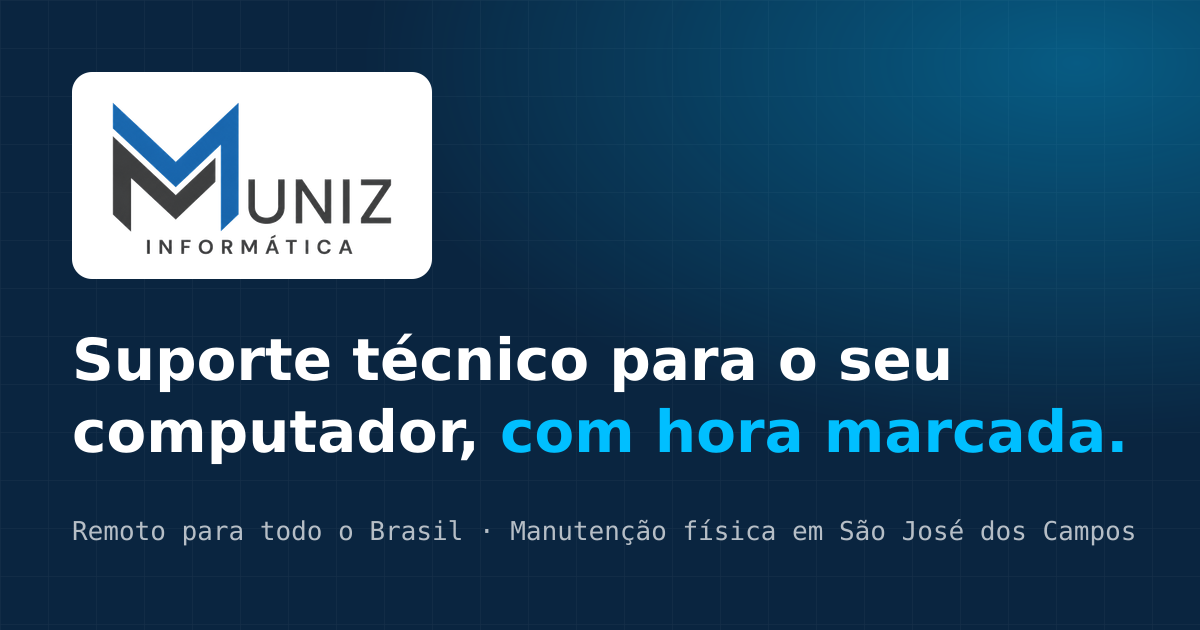
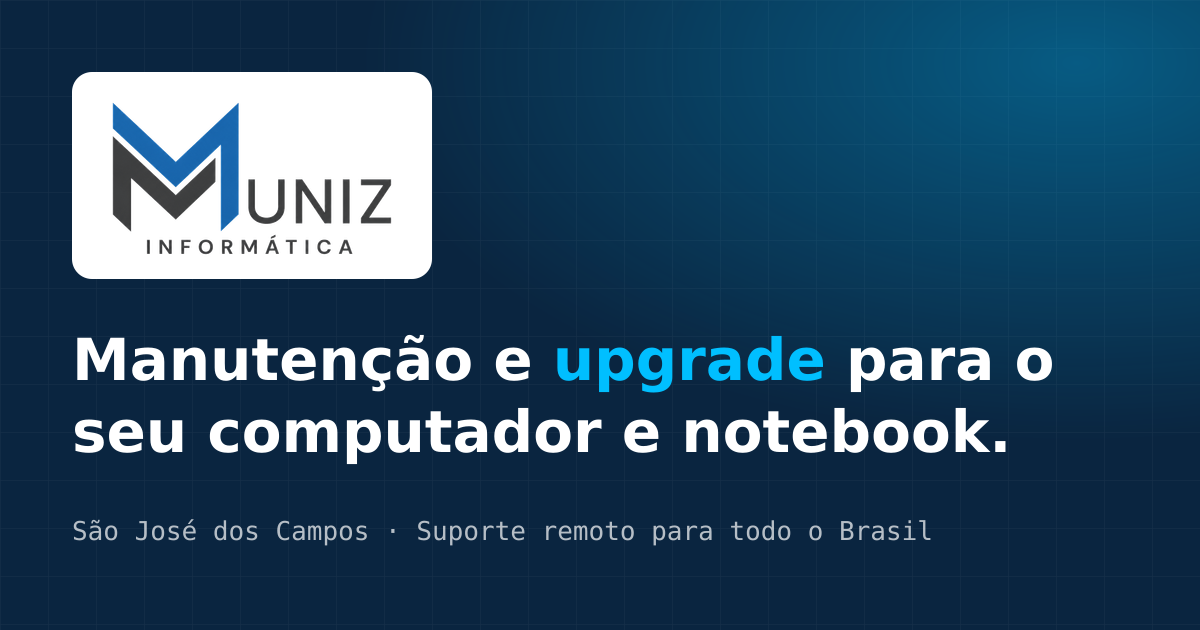
Muda o foco do site para manutenção e upgrade em SJC
- Página inicial: novo título, subtítulo e ordem das seções (manutenção e upgrade primeiro)
- /manutencao-de-computadores/ vira página central com grade dos serviços físicos
- Botão "Pedir orçamento" e mensagens de WhatsApp pedindo o modelo do equipamento
- Menu, serviços, rodapé e diagnóstico rápido começam por manutenção e upgrade
- Remove "hora marcada" dos textos; horário vira benefício (noites e fins de semana)
- Nova imagem de compartilhamento e correção do botão de empresas no celular

Changed region(s): [[0.0617, 0.5127, 0.9558, 0.754], [0.0617, 0.8143, 0.9558, 0.8746]]

diff --git a/src/data/services.ts b/src/data/services.ts
@@ -29,6 +29,8 @@ export interface ServicePage {
   approach: string[];
   faqs: [string, string][];
   related: string[];
+  /** Página central: lista estes serviços logo abaixo do topo. */
+  hub?: string[];
   wa: string;
 }
 
@@ -87,7 +89,7 @@ export const services: ServicePage[] = [
     cardText: 'Erros, atualizações travadas, configurações e programas que não funcionam.',
     seoTitle: 'Suporte Técnico Windows 10 e 11 | Atendimento Remoto',
     description:
-      'Suporte técnico para Windows 10 e 11: erros, atualizações travadas, tela azul, programas e configurações. Atendimento remoto com hora marcada para todo o Brasil.',
+      'Suporte técnico para Windows 10 e 11: erros, atualizações travadas, tela azul, programas e configurações. Atendimento remoto para todo o Brasil.',
     eyebrow: 'Windows 10 e Windows 11',
     h1: 'Suporte técnico para Windows 10 e 11',
     intro:
@@ -215,7 +217,7 @@ export const services: ServicePage[] = [
     cardText: 'Vírus, propagandas e programas suspeitos removidos, com proteção revisada.',
     seoTitle: 'Remoção de Vírus e Malware | Suporte Remoto em Todo o Brasil',
     description:
-      'Remoção de vírus, malware, propagandas e programas indesejados do computador, com revisão da proteção. Atendimento remoto para todo o Brasil, com hora marcada.',
+      'Remoção de vírus, malware, propagandas e programas indesejados do computador, com revisão da proteção. Atendimento remoto para todo o Brasil.',
     eyebrow: 'Vírus, malware e programas indesejados',
     h1: 'Remoção de vírus e programas indesejados do computador',
     intro:
@@ -415,7 +417,7 @@ export const services: ServicePage[] = [
       ['Onde entrego o equipamento?', 'A entrega é combinada pelo WhatsApp em um local em São José dos Campos, com agendamento. Não há atendimento em loja aberta ao público.'],
     ],
     related: ['upgrade-memoria-ram', 'computador-lento', 'assistencia-tecnica-em-sao-jose-dos-campos'],
-    wa: 'Olá! Gostaria de avaliar um upgrade de SSD no meu computador/notebook em São José dos Campos.',
+    wa: 'Olá! Gostaria de um orçamento de upgrade de SSD em São José dos Campos.\nModelo do computador/notebook:',
   },
   {
     slug: 'upgrade-memoria-ram',
@@ -452,7 +454,7 @@ export const services: ServicePage[] = [
       ['Memória ou SSD: qual primeiro?', 'Se o computador ainda usa HD, o SSD costuma trazer mais diferença. A análise indica qual faz mais sentido no seu caso.'],
     ],
     related: ['upgrade-ssd', 'computador-lento', 'assistencia-tecnica-notebook'],
-    wa: 'Olá! Gostaria de avaliar um upgrade de memória RAM em São José dos Campos.',
+    wa: 'Olá! Gostaria de um orçamento de upgrade de memória RAM em São José dos Campos.\nModelo do computador/notebook:',
   },
   {
     slug: 'limpeza-de-notebook',
@@ -491,7 +493,7 @@ export const services: ServicePage[] = [
       ['De quanto em quanto tempo limpar?', 'Depende do ambiente e do uso. Em locais com poeira ou animais, a limpeza tende a ser necessária com mais frequência.'],
     ],
     related: ['notebook-esquentando', 'manutencao-de-computadores', 'assistencia-tecnica-notebook'],
-    wa: 'Olá! Gostaria de agendar uma limpeza interna do meu notebook em São José dos Campos.',
+    wa: 'Olá! Gostaria de um orçamento de limpeza interna do meu notebook em São José dos Campos.\nModelo do notebook:',
   },
   {
     slug: 'notebook-esquentando',
@@ -530,7 +532,7 @@ export const services: ServicePage[] = [
       ['É perigoso usar o notebook quente?', 'O aquecimento constante força os componentes e pode causar desligamentos. Vale investigar antes que vire um defeito.'],
     ],
     related: ['limpeza-de-notebook', 'computador-travando', 'assistencia-tecnica-notebook'],
-    wa: 'Olá! Meu notebook está esquentando muito. Gostaria de uma avaliação.',
+    wa: 'Olá! Meu notebook está esquentando muito. Gostaria de uma avaliação.\nModelo do notebook:',
   },
   {
     slug: 'notebook-demora-para-ligar',
@@ -588,7 +590,7 @@ export const services: ServicePage[] = [
     intro:
       'Para quem está em São José dos Campos, o atendimento combina o melhor dos dois formatos: o que dá para resolver pela internet é feito remotamente, e o que exige mexer no equipamento é feito com entrega agendada em um local combinado na cidade.',
     includes: [
-      'Suporte remoto com hora marcada',
+      'Suporte remoto para problemas de sistema',
       'Upgrade de SSD e memória',
       'Limpeza interna e manutenção',
       'Atendimento no local para empresas',
@@ -697,39 +699,43 @@ export const services: ServicePage[] = [
     group: 'local',
     modality: 'sjc',
     icon: 'Wrench',
-    navLabel: 'Manutenção de computadores',
-    cardText: 'Manutenção preventiva para casa e para empresas em São José dos Campos.',
-    seoTitle: 'Manutenção de Computadores em São José dos Campos | Muniz',
+    navLabel: 'Manutenção e upgrade',
+    cardText: 'Manutenção preventiva e corretiva, upgrade e limpeza, para casa e para empresas.',
+    seoTitle: 'Manutenção de Computadores e Notebooks em São José dos Campos',
     description:
-      'Manutenção preventiva e corretiva de computadores e notebooks em São José dos Campos, para pessoas e empresas. Atendimento no local para empresas, com agendamento.',
-    eyebrow: 'Manutenção preventiva e corretiva',
-    h1: 'Manutenção de computadores em São José dos Campos',
+      'Manutenção e upgrade de computadores e notebooks em São José dos Campos: SSD, memória, limpeza e formatação, com entrega agendada. Empresas, no local.',
+    eyebrow: 'Manutenção e upgrade · São José dos Campos',
+    h1: 'Manutenção e upgrade de computadores em São José dos Campos',
     intro:
-      'Manutenção preventiva é mais barata que conserto. Uma revisão periódica de limpeza, atualizações, disco e backup reduz paradas inesperadas, tanto no computador de casa quanto nas máquinas de uma empresa.',
+      'Um computador lento ou esquentando nem sempre precisa ser trocado. Manutenção e upgrade, como a troca do HD por SSD ou mais memória, costumam prolongar a vida útil e melhorar o desempenho no dia a dia. Antes de qualquer serviço, o caso é avaliado e você recebe o orçamento.',
     includes: [
-      'Limpeza interna e refrigeração',
-      'Atualizações e revisão de segurança',
-      'Verificação de disco e de backup',
-      'Relatório do que foi encontrado',
+      'Upgrade de SSD e memória RAM',
+      'Limpeza interna e revisão da refrigeração',
+      'Formatação e instalação do Windows',
+      'Verificação de disco, atualizações e backup',
     ],
-    signsTitle: 'Para quem é',
+    signsTitle: 'Quando vale procurar',
     signs: [
-      'Computadores usados todos os dias para trabalho ou estudo.',
-      'Empresas com vários equipamentos e nenhuma rotina de revisão.',
-      'Equipamentos que ficam em ambientes com poeira.',
-      'Quem quer evitar ser pego de surpresa por uma falha.',
+      'O computador ficou lento ou demora para ligar.',
+      'O notebook esquenta, faz barulho ou desliga sozinho.',
+      'Faz tempo que o equipamento não passa por limpeza ou revisão.',
+      'Você quer evitar ser pego de surpresa por uma falha.',
+      'A empresa tem vários computadores e nenhuma rotina de revisão.',
     ],
-    approachTitle: 'Pessoas e empresas',
+    approachTitle: 'Avaliar antes de trocar peça',
     approach: [
+      'Antes de comprar qualquer peça, o modelo compatível e o custo-benefício são verificados. Quando o upgrade não compensa, você também recebe essa orientação.',
       'Para pessoas físicas, a manutenção física é feita com entrega do equipamento agendada em São José dos Campos. A parte de sistema e atualizações pode ser feita remotamente.',
       'Para empresas em São José dos Campos, a manutenção pode ser feita no próprio local, com agendamento e conforme disponibilidade.',
     ],
     faqs: [
+      ['Vale mais a pena fazer upgrade ou comprar um computador novo?', 'Depende da idade do equipamento e do seu uso. A avaliação mostra o custo-benefício de cada opção antes de qualquer compra.'],
       ['Com que frequência fazer manutenção?', 'Depende do uso e do ambiente. A recomendação é definida depois da primeira revisão.'],
       ['Atendem empresas no local?', 'Sim, empresas em São José dos Campos, com agendamento e conforme disponibilidade.'],
     ],
-    related: ['limpeza-de-notebook', 'suporte-informatica-pequenas-empresas', 'backup-de-arquivos'],
-    wa: 'Olá! Gostaria de agendar uma manutenção preventiva em São José dos Campos.',
+    hub: ['upgrade-ssd', 'upgrade-memoria-ram', 'limpeza-de-notebook', 'formatacao-de-notebook', 'notebook-esquentando', 'notebook-demora-para-ligar'],
+    related: ['assistencia-tecnica-notebook', 'assistencia-tecnica-computador', 'suporte-informatica-pequenas-empresas'],
+    wa: 'Olá! Gostaria de um orçamento de manutenção ou upgrade em São José dos Campos.\nModelo do computador/notebook:',
   },
 
   // ───────────────────────── EMPRESAS ─────────────────────────
@@ -899,7 +905,7 @@ export const byGroup = (group: Group) => services.filter((s) => s.group === grou
 export const modalityLabel: Record<Modality, { short: string; long: string }> = {
   remoto: {
     short: 'Remoto · todo o Brasil',
-    long: 'Atendimento remoto para qualquer cidade do Brasil, com hora marcada.',
+    long: 'Atendimento remoto para qualquer cidade do Brasil, conforme o tipo de problema.',
   },
   misto: {
     short: 'Remoto + entrega em SJC',

diff --git a/src/config/site.ts b/src/config/site.ts
@@ -26,3 +26,7 @@ export const site = {
 
 export const DEFAULT_WA_MESSAGE =
   'Olá! Vim pelo site da Muniz Informática e gostaria de agendar um atendimento.\nMelhor dia e horário para mim:';
+
+// Pedido de orçamento de manutenção/upgrade: o modelo do equipamento já ajuda a orçar.
+export const UPGRADE_WA_MESSAGE =
+  'Olá! Vim pelo site da Muniz Informática e gostaria de um orçamento de manutenção ou upgrade.\nModelo do computador/notebook:\nO que está acontecendo:';
